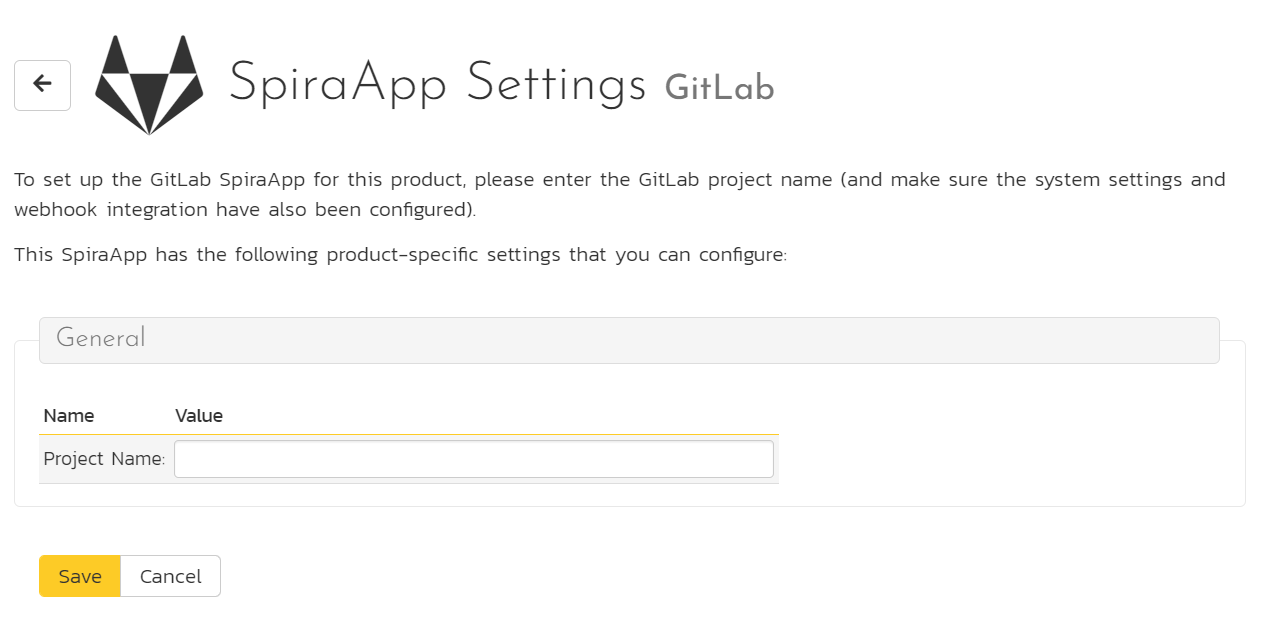
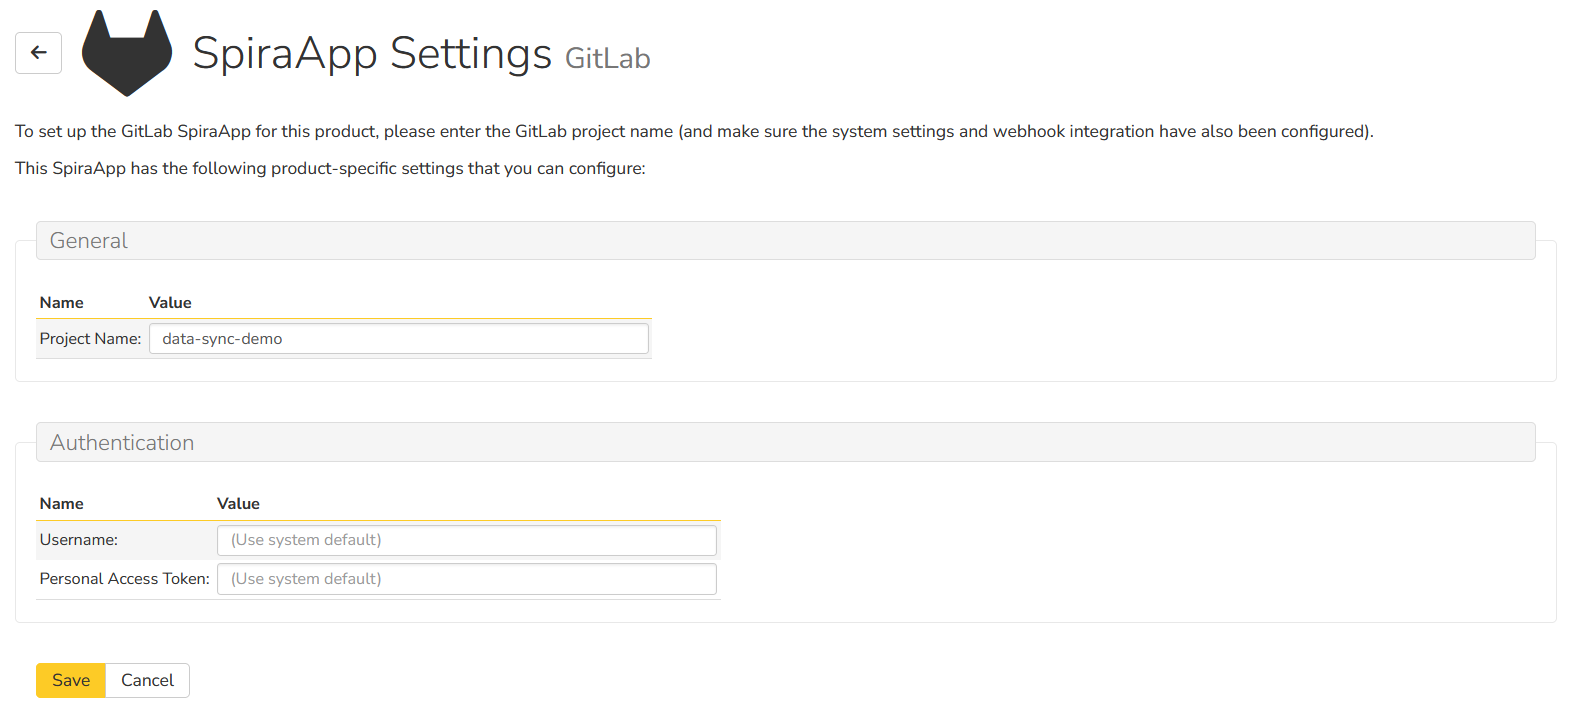
update GitLab SpiraApp SpiraDocs

diff --git a/docs/SpiraApps/GitLab.md b/docs/SpiraApps/GitLab.md
@@ -24,11 +24,13 @@ To configure this SpiraApp that lets users manually kick off a new Pipeline, you
 ### System settings
 - [x] Enter the **GitLab account name** - for example, if your URL is `https://gitlab.com/my-company/my-project` you should enter `my-company`
 - [x] Enter the [Personal Access Token](https://docs.gitlab.com/ee/user/profile/personal_access_tokens.html#personal-access-tokens) - make sure the PAT has read and write API permissions
+- [x] If your instance of GitLab is self-hosted, you will need to enter in the base URL (without the `https://`). If you are using `gitlab.com` then you can leave this field blank.
 
 ![system settings page](img/gitlab-system-settings.png)
 
 ### Product Settings
 - [x] Enter the URL friendly name of the **GitLab project** - for example, if your URL is `https://gitlab.com/my-company/my-project` you should enter `my-project`
+- [x] If you want to have a different personal access token for this project, you can enter in the project-specific `Username` and `Personal Access Token` on this screen. If you leave this blank, the values from system settings are used instead. 
 
 ![product settings page](img/gitlab-product-settings.png)
 
